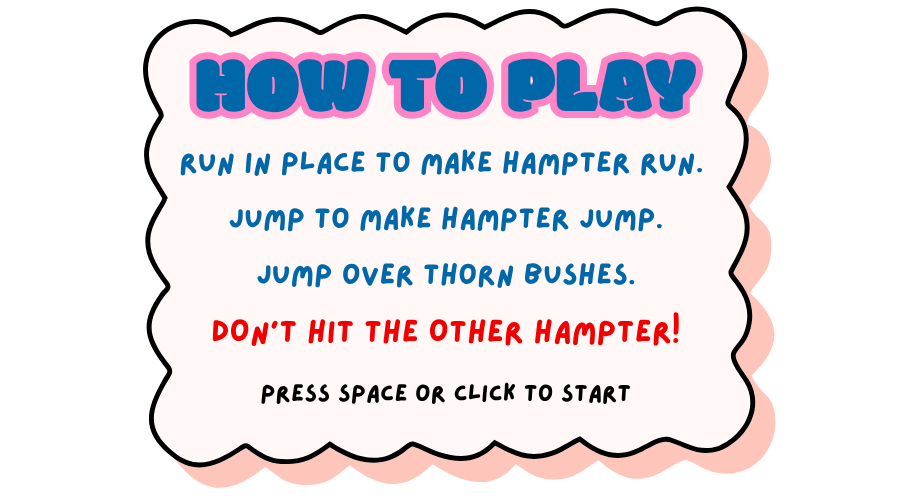
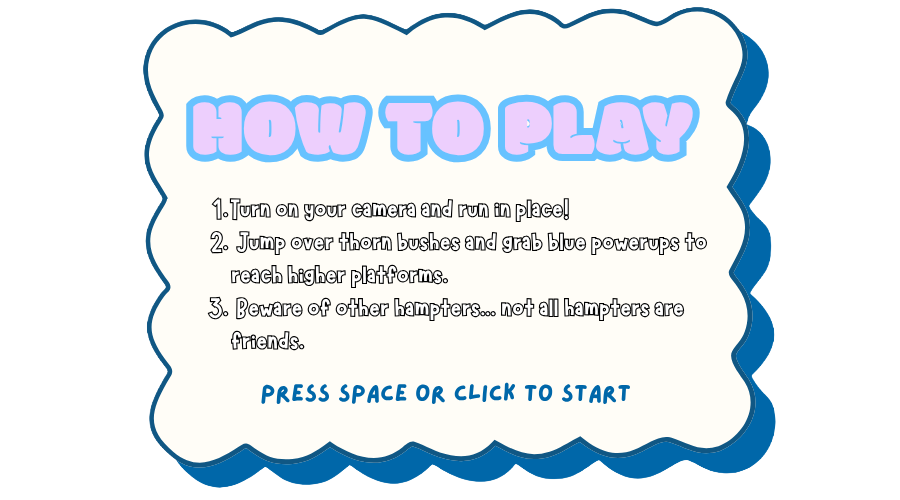
New how to play screen, shown as a sharp image over the canvas

diff --git a/src/game/game.js b/src/game/game.js
@@ -962,11 +962,9 @@ export class Game {
   drawInstructions() {
     const ctx = this.ctx;
 
-    if (this.instructionsImage) {
-      // Instructions screen (900x500, drawn over the whole canvas)
-      ctx.drawImage(this.instructionsImage, 0, 0, GAME_WIDTH, GAME_HEIGHT);
-      return;
-    }
+    // The image itself is the #instructions <img> in index.html, shown by
+    // main.js on top of the canvas so its text isn't pixelated
+    if (this.instructionsImage) return;
 
     // Fallback text if the image hasn't loaded
     ctx.textAlign = "center";

diff --git a/src/main.js b/src/main.js
@@ -98,6 +98,17 @@ function followHampter() {
   }
 
   requestAnimationFrame(followHampter);
+
+// How to play screen: a regular <img> over the canvas, so it renders at the
+// screen's full resolution instead of the canvas's pixelated 900x500
+const instructions = document.querySelector("#instructions");
+
+function syncInstructions() {
+  instructions.hidden = game.state !== "instructions";
+  requestAnimationFrame(syncInstructions);
+}
+
+requestAnimationFrame(syncInstructions);
 }
 
 requestAnimationFrame(followHampter);

diff --git a/src/styles/styles.css b/src/styles/styles.css
@@ -135,3 +135,19 @@ h1 {
   border-top-color: #2b1d12;
   border-bottom: 0;
 }
+
+/* How to play image, centered over the game (see main.js) */
+#instructions {
+  position: fixed;
+  inset: 0;
+  z-index: 5;
+  width: 80vw;
+  height: 80vh;
+  margin: auto;
+  object-fit: contain; /* keep its shape whatever the window size */
+  pointer-events: none; /* clicks still go to the game */
+}
+
+#instructions[hidden] {
+  display: none;
+}

diff --git a/index.html b/index.html
@@ -8,6 +8,8 @@
 </head>
 <body>
   <canvas id="gameCanvas" width="900" height="500" aria-label="Hampter Vision game"></canvas>
+  <!-- How to play: shown over the canvas (not drawn in it) so the text stays sharp -->
+  <img id="instructions" src="/assets/backgrounds/instructions.png" alt="How to play" hidden />
   <aside class="camera-panel" aria-label="Webcam and body detection">
 
     <div class="camera">
